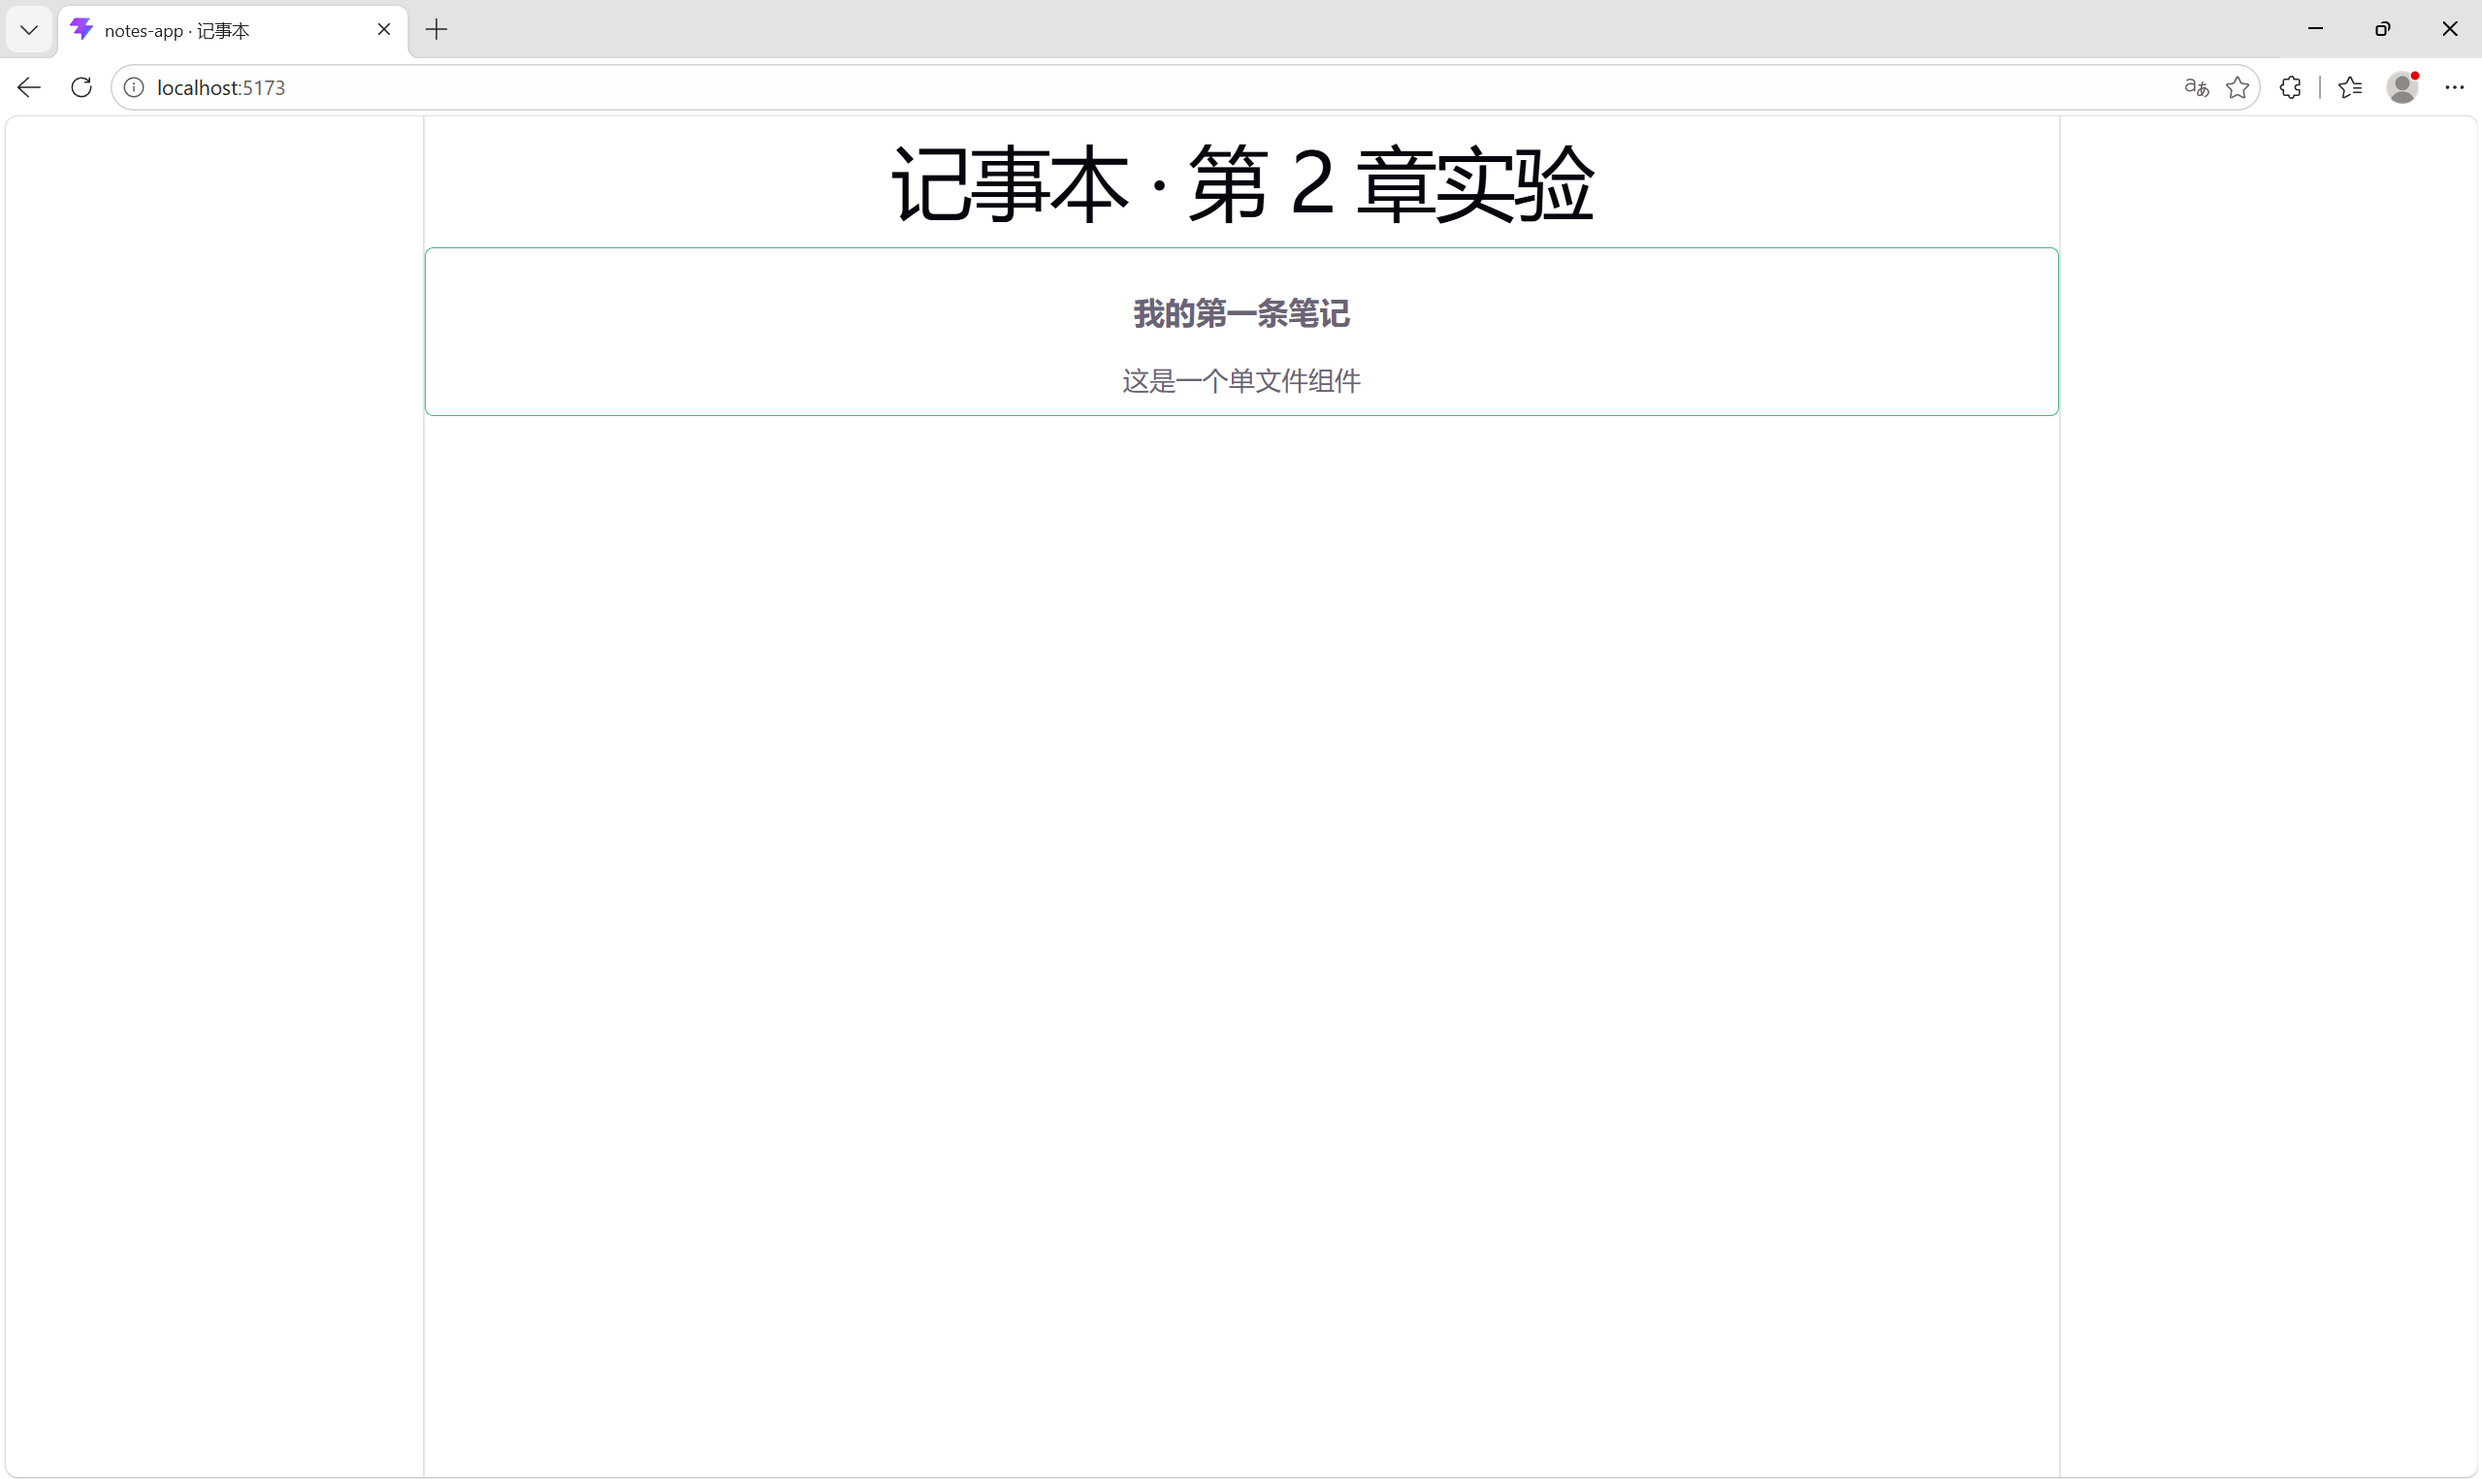
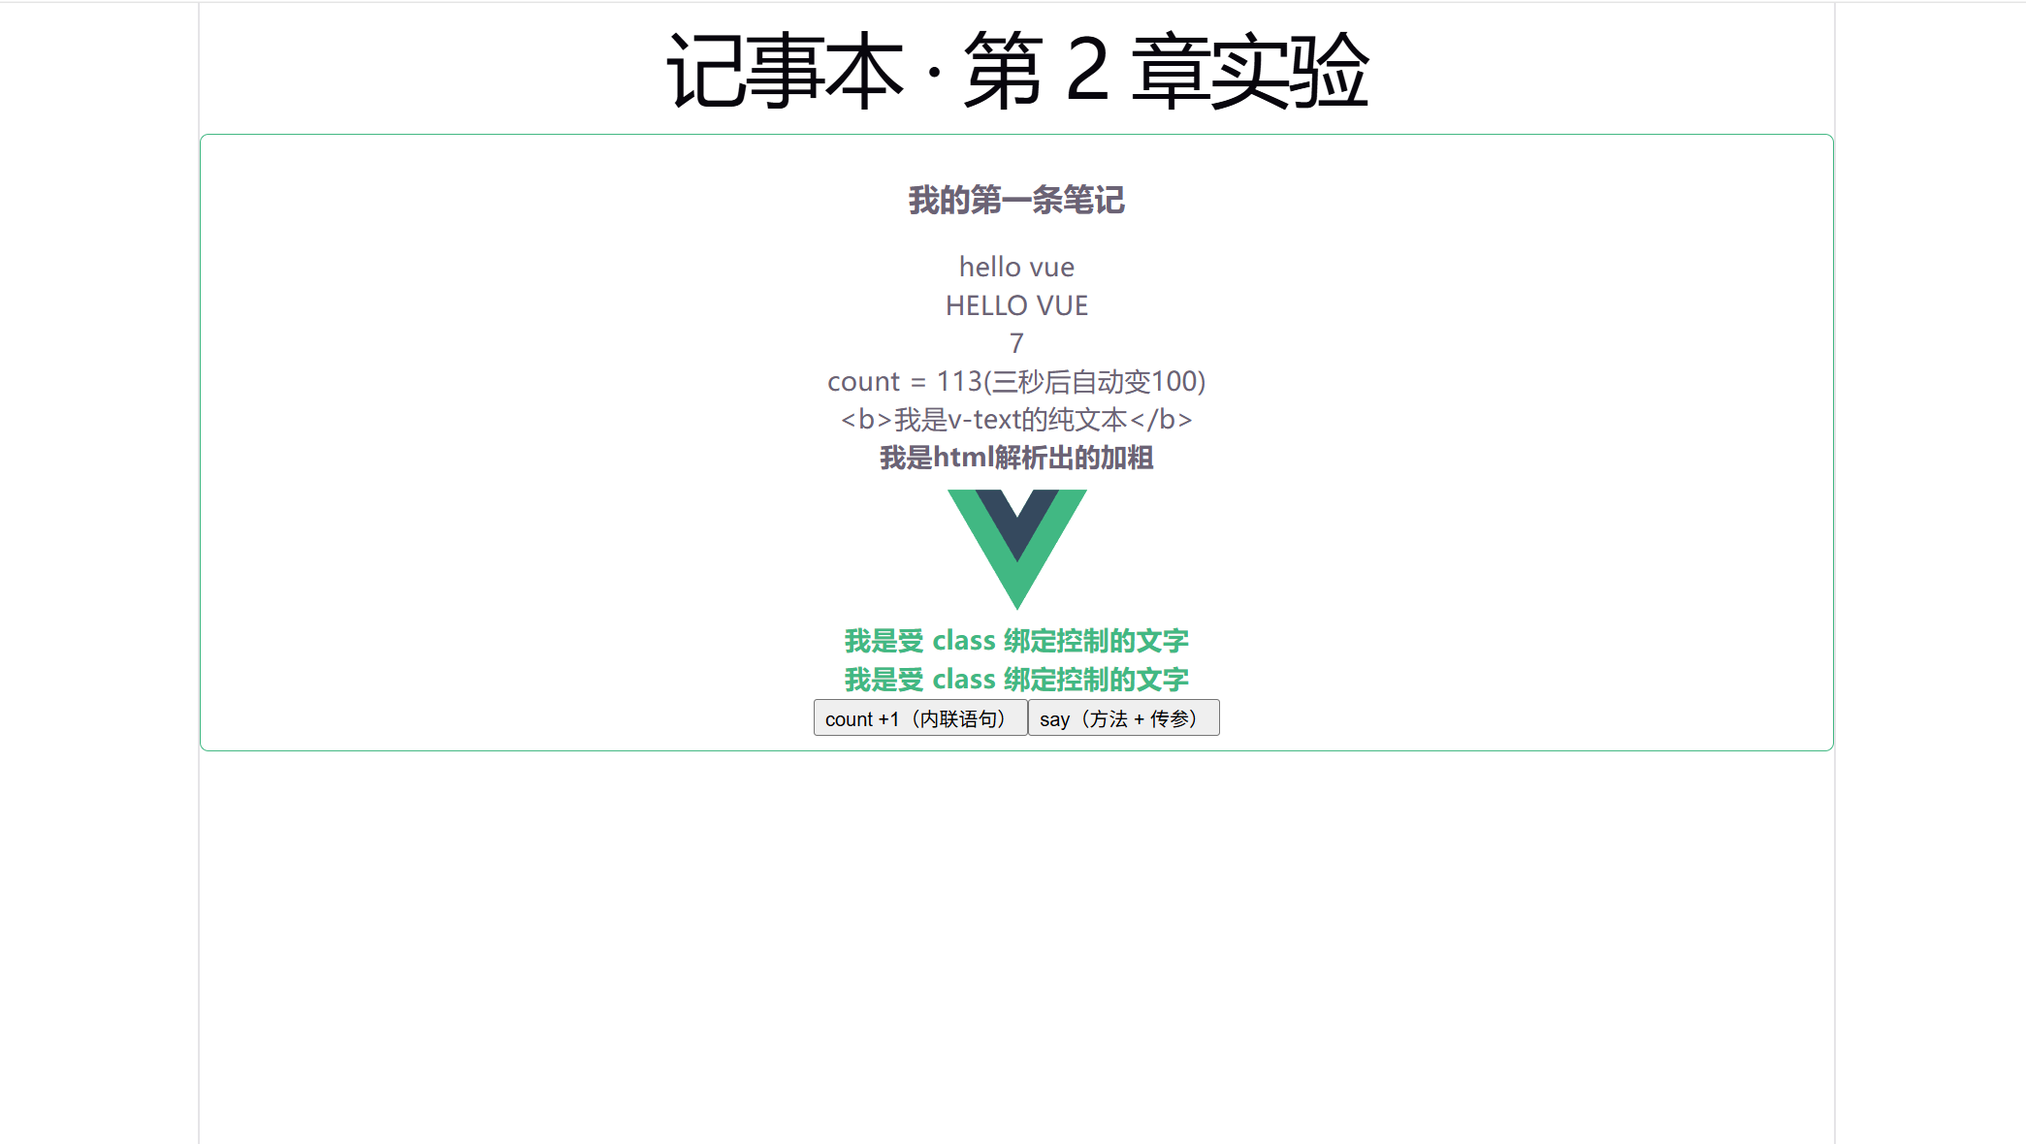
lab03-events-32605150622

diff --git a/notes-app/src/components/EventLab.vue b/notes-app/src/components/EventLab.vue
@@ -1,0 +1,103 @@
+<template>
+  <div class="event-lab">
+    <h3>🎯 事件实验室（2.4 事件对象 · 2.5 事件修饰符）</h3>
+
+    <!-- ===== 2.4 事件对象 ===== -->
+    <button @click="showEvent">打印事件对象（不传参）</button>
+    <button @click="showEventArg($event, 66)">showEventArg($event, 66)（传参版）</button>
+    <a href="https://vuejs.org" @click="goVue">Vue 官网链接（手动 preventDefault）</a>
+
+    <hr />
+
+    <!-- ===== 2.5 事件修饰符 ===== -->
+    <!-- .stop：冒泡对比 -->
+    <div class="bubble" @click="log('outer 触发（外层 @click）')">
+      <button @click.stop="log('inner 触发（.stop：冒泡被阻止）')">内层 .stop</button>
+      <button @click="log('inner 触发（无 .stop：冒泡到外层）')">内层 无.stop</button>
+    </div>
+
+    <!-- .prevent / .once -->
+    <a href="https://vuejs.org" @click.prevent="log('.prevent 阻止了跳转')"
+      >Vue 官网（.prevent 版）</a
+    >
+    <button @click.once="log('`.once` 抽奖按钮：只触发这一次！')">抽奖按钮 .once</button>
+
+    <!-- .self：只有点盒子本身才触发 -->
+    <div class="self-box" @click.self="log('.self：点到盒子本身才触发')">
+      点盒子本身（.self）<button>我是子元素（点我没用）</button>
+    </div>
+
+    <!-- 键盘修饰符 .enter / .esc -->
+    <input
+      @keyup.enter="log('回车 .enter 触发')"
+      @keyup.esc="log('Esc .esc 触发')"
+      placeholder="这里按 Enter / Esc 试试"
+    />
+
+    <!-- 日志区：最新在上 -->
+    <ol class="logs">
+      <li v-for="(item, index) in logs" :key="index">{{ item }}</li>
+    </ol>
+  </div>
+</template>
+
+<script>
+export default {
+  name: 'EventLab',
+  data() {
+    return { logs: [] }
+  },
+  methods: {
+    log(msg) {
+      this.logs.unshift(msg) // 最新日志插到最前面
+      console.log(msg)
+    },
+    showEvent(e) {
+      // 不传参：首参就是事件对象
+      this.log(
+        `type=${e.type}｜target=<${e.target.tagName.toLowerCase()}>｜timeStamp=${Math.round(e.timeStamp)}ms`,
+      )
+      console.log('完整事件对象：', e)
+    },
+    showEventArg(e, number) {
+      // 传参版：模板里 $event 占位
+      this.log(`传参版：target=<${e.target.tagName.toLowerCase()}>｜number=${number}`)
+    },
+    goVue(e) {
+      e.preventDefault() // 原生 API：阻止链接默认跳转
+      this.log('手动 preventDefault() 阻止了跳转')
+    },
+  },
+}
+</script>
+
+<style scoped>
+.event-lab {
+  /* 外层：金色虚线圆角卡片 */
+  border: 1px dashed #b8860b;
+  padding: 12px 16px;
+  border-radius: 8px;
+  line-height: 2;
+}
+.bubble {
+  /* 冒泡实验：绿色实线盒 */
+  border: 2px solid #42b883;
+  padding: 6px 10px;
+  margin: 6px 0;
+}
+.self-box {
+  /* .self 实验：蓝色点线盒 */
+  border: 2px dotted #646cff;
+  padding: 6px 10px;
+  margin: 6px 0;
+}
+.logs {
+  /* 日志区：浅灰底 + 金色左边线 */
+  background: #fafafa;
+  border-left: 3px solid #b8860b;
+  margin: 8px 0 0;
+  padding: 4px 8px 4px 28px;
+  color: #555;
+  min-height: 2em;
+}
+</style>

diff --git a/notes-app/src/App.vue b/notes-app/src/App.vue
@@ -5,7 +5,12 @@
         <hr />
     <h2>📝 记事本雏形（综合任务）</h2>
 
-    <input v-model="newNote" placeholder="输入笔记内容" @keyup.enter="addNote" />
+    <input
+      v-model="newNote"
+      placeholder="输入笔记内容"
+      @keyup.enter="addNote"
+      @keyup.esc="newNote = ''"
+    />
     <button @click="addNote">添加</button>
     <br />
     <label><input type="radio" value="高" v-model="priority" /> 高</label>
@@ -26,13 +31,18 @@
 
     <p v-if="notes.length === 0">暂无笔记，快添加一条吧</p>
     <p v-show="notes.length > 0">共 {{ notes.length }} 条</p>
+
+    <hr />
+    <h2>🎯 事件实验室（2.4—2.5）</h2>
+    <EventLab />
   </div>
 </template>
 
 <script>
 import NoteCard from './components/NoteCard.vue'
+import EventLab from './components/EventLab.vue'
 export default {
-  components: { NoteCard },
+  components: { NoteCard, EventLab },
     data() {
     return {
       newNote: '',      // 输入框草稿
